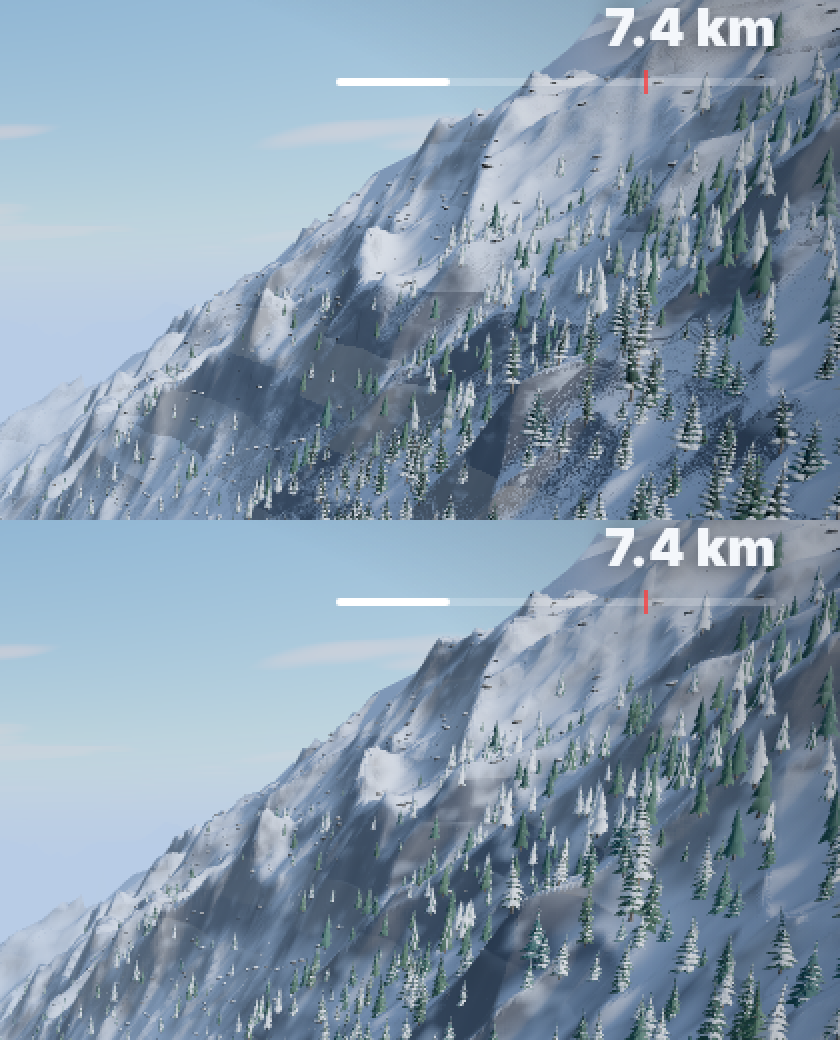
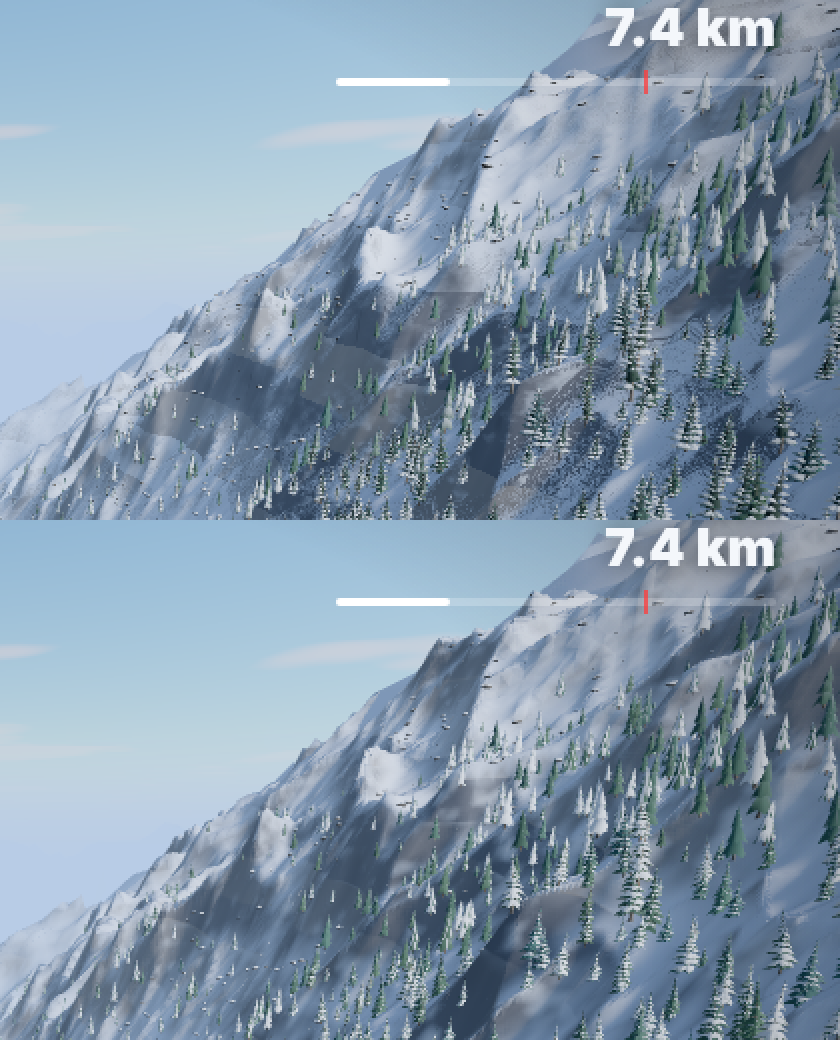
WIP round 2 snapshot #4 (periodic safety snapshot)
Claude-Session: https://claude.ai/code/session_01VcnZmRBSGHHzXyxcV1oKh9

diff --git a/src/world/snowMaterial.ts b/src/world/snowMaterial.ts
@@ -58,6 +58,8 @@ export interface TerrainUniforms {
   uDetail: { value: number };
   uSunDir: { value: THREE.Vector3 };
   uOrigin: { value: THREE.Vector3 };
+  /** multiplier on the sparse sun-glint sparkles (0 = off; the cave cinematic dims them) */
+  uGlint: { value: number };
 }
 
 export function createSnowMaterial(quality: 'low' | 'medium' | 'high' | 'ultra'): { material: THREE.MeshStandardMaterial; uniforms: TerrainUniforms } {
@@ -67,6 +69,7 @@ export function createSnowMaterial(quality: 'low' | 'medium' | 'high' | 'ultra')
     uDetail: { value: quality === 'low' ? 0.0 : quality === 'medium' ? 0.6 : 1.0 },
     uSunDir: { value: new THREE.Vector3(0, 1, 0) },
     uOrigin: { value: new THREE.Vector3() },
+    uGlint: { value: 1 },
   };
   const material = new THREE.MeshStandardMaterial({ color: 0xffffff, roughness: 0.85, metalness: 0 });
   material.onBeforeCompile = (shader) => {
@@ -75,6 +78,7 @@ export function createSnowMaterial(quality: 'low' | 'medium' | 'high' | 'ultra')
     shader.uniforms.uDetail = uniforms.uDetail;
     shader.uniforms.uSunDir = uniforms.uSunDir;
     shader.uniforms.uOrigin = uniforms.uOrigin;
+    shader.uniforms.uGlint = uniforms.uGlint;
     addAtmosphereUniforms(shader.uniforms);
     shader.vertexShader = shader.vertexShader
       .replace(
@@ -103,6 +107,7 @@ uniform float uTime;
 uniform float uCloudShadow;
 uniform float uDetail;
 uniform vec3 uSunDir;
+uniform float uGlint;
 varying vec3 vNPos;
 varying vec3 vWPos;
 varying vec3 vWNormal;
@@ -296,7 +301,7 @@ roughnessFactor = mix(roughnessFactor, 0.78, sf_rock);
   vec3 R = reflect(-uSunDir, sf_wn);
   float cell = sf_h2(floor(gq) + floor(mod(vNPos.y, 1024.0) * 38.0));
   float glint = step(0.996, cell) * pow(max(dot(R, V), 0.0), 24.0) * (1.0 - smoothstep(4.0, 30.0, sf_dist)) * (1.0 - smoothstep(0.3, 0.7, gfp)) * (1.0 - sf_rock);
-  totalEmissiveRadiance += vec3(1.0, 0.97, 0.92) * glint * 1.6 * uDetail;
+  totalEmissiveRadiance += vec3(1.0, 0.97, 0.92) * glint * 1.6 * uDetail * uGlint;
 }
 `,
       )
@@ -307,6 +312,6 @@ normal = normalize((viewMatrix * vec4(sf_wn, 0.0)).xyz);
 `,
       );
   };
-  material.customProgramCacheKey = () => 'skifree-snow-v5';
+  material.customProgramCacheKey = () => 'skifree-snow-v6';
   return { material, uniforms };
 }

diff --git a/preview/yeti.ts b/preview/yeti.ts
@@ -478,6 +478,11 @@ switch (camName) {
     camera.position.set(4.6 * widen, 2.1, 5.6 * widen);
     break;
 }
+if (camName.startsWith('face')) {
+  // face presets were authored for HEAD_SCALE 1.3: back off with the bigger head (fdist=<k> overrides)
+  const fd = parseFloat(q.get('fdist') ?? '1.22');
+  camera.position.sub(target).multiplyScalar(fd).add(target);
+}
 if (!camName.startsWith('face') && camName !== 'hand' && camName !== 'foot') {
   // presets are authored around the origin: follow the root (and its yaw) when it moved
   const yaw = yeti.root.rotation.y;

diff --git a/src/world/Environment.ts b/src/world/Environment.ts
@@ -158,6 +158,11 @@ export class Environment {
     this.scene.environmentIntensity = 0.3 * k;
   }
 
+  /** Show/hide the ambient falling snow (hidden in the dark cave shots, where it reads as stars). */
+  setFlakes(visible: boolean) {
+    this.snow.visible = visible;
+  }
+
   setFogBoost(f: number) {
     this.fog.density = this.baseFogDensity * (1 + f);
   }

diff --git a/docs/reviews/pass2/yeti/R2_NOTES.md b/docs/reviews/pass2/yeti/R2_NOTES.md
@@ -26,3 +26,5 @@
 - 22:xx session 3: verification renders at 960x540 in /tmp/y2/v (main 723,017; overlay 818,021)
 - crawl (3/4, front, back, top) checked: head on travel line, hind legs under the body -> A19 OK as-is. dark shade .15: body near-black + glowing eyes -> A9/C4 OK.
 - A16: HEAD_SCALE 1.42->1.55, HEAD_LIFT (0,.1,.04)->(0,.14,.05): visible neck in side view, roar head ~85px vs ~230 shoulders @960. (/tmp/y2/v/mont4.png)
+- preview: face cams back off ×1.22 (fdist=) for the bigger head. tsc clean, vitest 107/107 after A16 change. Next: final 1920 evidence.
+- 1920 evidence: face_front, face_34, body_front, body_side written (22:01). Remaining run via /tmp/y2/final.sh -> /tmp/y2/final.log
